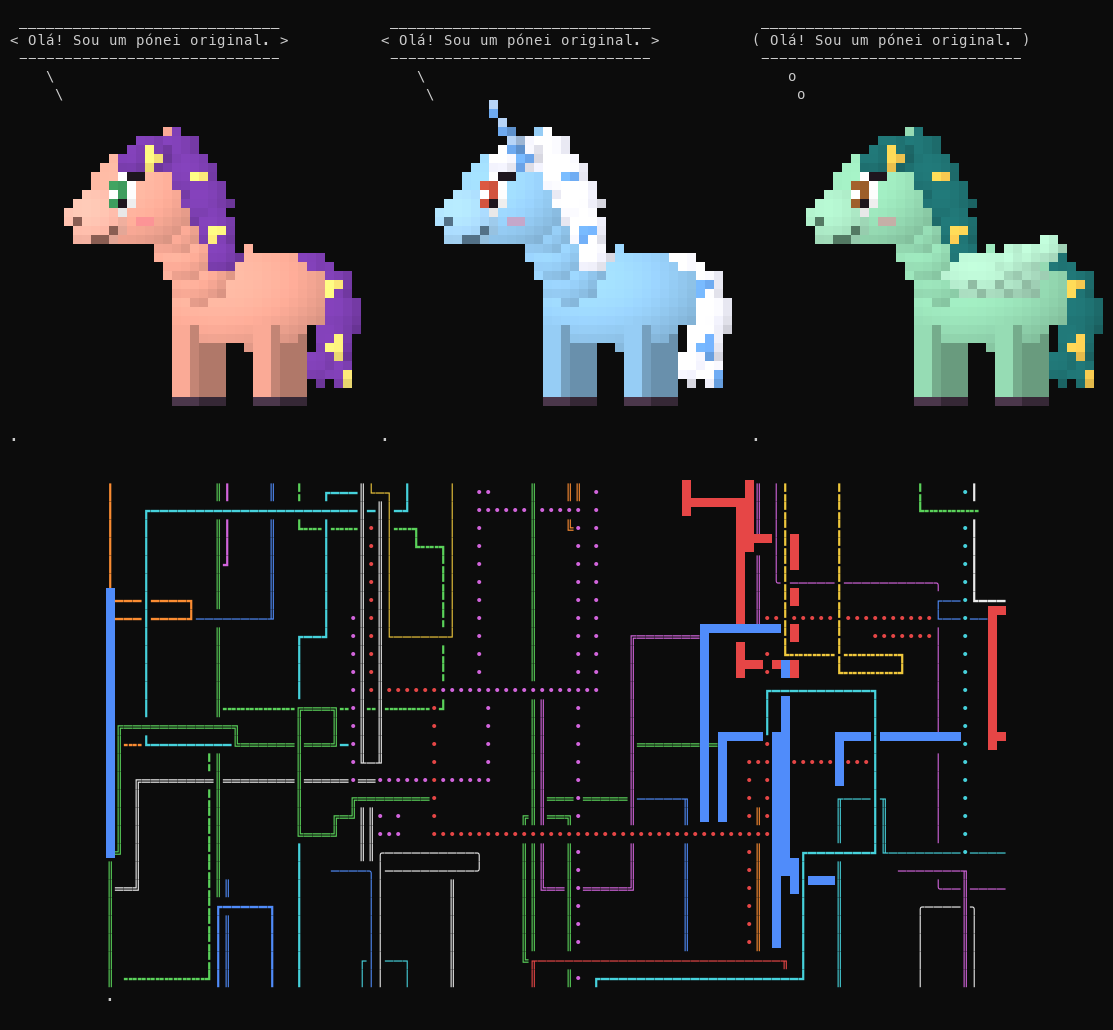
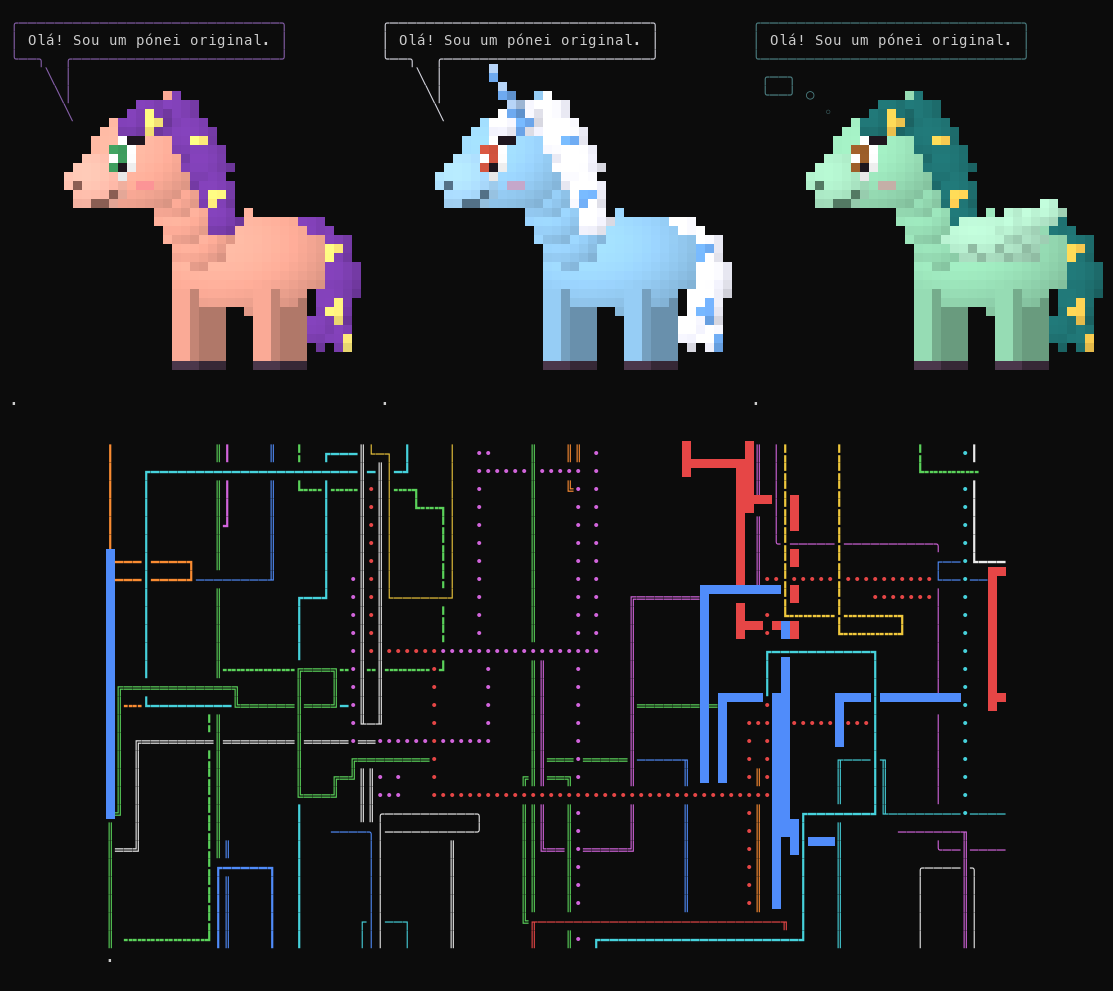
rponysay: rounded balloon with a pointed tail or thought bubbles

diff --git a/src/bin/rponysay.rs b/src/bin/rponysay.rs
@@ -2,12 +2,11 @@
 //! original ponies drawn by the program.
 
 use fun::cli::{Arg, Cli};
-use fun::cow::balloon;
 use fun::i18n::Lang;
 use fun::pix::{mix, scale, Pixels};
 use fun::rng::Rng;
 use fun::term::{self, Depth, Rgb};
-use fun::text::{expand_tabs, wrap_text};
+use fun::text::{expand_tabs, width, wrap_text};
 use std::io::Write;
 
 struct Texts {
@@ -288,19 +287,51 @@ fn main() {
     let _ = std::io::stdout().write_all(render(&message, think, width, wrap, coat, kind, depth).as_bytes());
 }
 
+/// The tail of a spoken balloon: a wedge out of the gap in the bottom line
+/// (`╰──╮  ╭───╯`) whose sides meet in front of the pony's face.
+const SPEECH_TAIL: [&str; 3] = ["    ╲ │", "     ╲│", "      ╲"];
+/// The tail of a thought: bubbles shrinking towards the pony's head, the first
+/// one a small rounded box like the balloon.
+const THOUGHT_TAIL: [&str; 3] = [" ╭──╮", " ╰──╯ ○", "        ◦"];
+/// Columns where `╮` and `╭` open the bottom line for the speech tail.
+const GAP: (usize, usize) = (3, 6);
+
+/// A rounded box around the text, its frame drawn in `on`. Returns the box and
+/// the tail, whose rows go into the empty start of the pony's first rows.
+fn balloon(lines: &[String], think: bool, on: &str, off: &str) -> (String, [&'static str; 3]) {
+    // Wide enough for the gap the speech tail opens in the bottom line.
+    let w = lines.iter().map(|l| width(l)).max().unwrap_or(0).max(GAP.1 + 2);
+    let mut out = format!("{on}╭{}╮{off}\n", "─".repeat(w + 2));
+    for l in lines {
+        out.push_str(&format!("{on}│{off} {l}{} {on}│{off}\n", " ".repeat(w - width(l))));
+    }
+    if think {
+        out.push_str(&format!("{on}╰{}╯{off}\n", "─".repeat(w + 2)));
+        (out, THOUGHT_TAIL)
+    } else {
+        let (a, b) = GAP;
+        out.push_str(&format!("{on}╰{}╮{}╭{}╯{off}\n", "─".repeat(a - 1), " ".repeat(b - a - 1), "─".repeat(w + 2 - b)));
+        (out, SPEECH_TAIL)
+    }
+}
+
 fn render(message: &str, think: bool, width: usize, wrap: bool, coat: &Coat, kind: &str, depth: Depth) -> String {
     let message = expand_tabs(message.trim_end(), 8);
     let lines: Vec<String> = if wrap { wrap_text(&message, width) } else { message.lines().map(str::to_string).collect() };
     let lines = if lines.is_empty() { vec![String::new()] } else { lines };
-    let mut out = balloon(&lines, think);
-    // The link from the balloon down to the pony's head.
-    let link = if think { "o" } else { "\\" };
-    for i in 0..2 {
-        out.push_str(&format!("{}{link}\n", " ".repeat(4 + i)));
-    }
-    for l in pony(coat, kind).to_lines(depth) {
-        out.push_str("     ");
-        out.push_str(&l);
+    // The frame takes a soft tone of the pony's mane.
+    let on = term::fg(depth, mix(coat.mane, Rgb(160, 160, 170), 0.35));
+    let off = if on.is_empty() { "" } else { term::RESET };
+    let (mut out, tail) = balloon(&lines, think, &on, off);
+    for (i, l) in pony(coat, kind).to_lines(depth).iter().enumerate() {
+        let line = format!("     {l}");
+        let rest = line.trim_start_matches(' ');
+        let blank = if rest.is_empty() { usize::MAX } else { line.len() - rest.len() };
+        match tail.get(i).map(|t| (t, t.chars().count())) {
+            // The tail replaces spaces only, never the pony.
+            Some((t, n)) if n <= blank => out.push_str(&format!("{on}{t}{off}{}", line.get(n..).unwrap_or(""))),
+            _ => out.push_str(&line),
+        }
         out.push('\n');
     }
     out
@@ -315,11 +346,18 @@ mod tests {
         for c in COATS {
             for k in KINDS {
                 let s = render("Olá, mundo!", false, 40, true, c, k, Depth::None);
-                assert!(s.starts_with(" _____________\n< Olá, mundo! >\n"), "{s}");
+                assert!(s.starts_with("╭─────────────╮\n│ Olá, mundo! │\n╰──╮  ╭───────╯\n    ╲ │"), "{s}");
+                let rows: Vec<_> = s.lines().collect();
+                assert!(rows[4].starts_with("     ╲│ ") && rows[5].starts_with("      ╲ "), "{s}");
                 assert!(s.lines().count() > 15);
             }
         }
-        assert!(render("hm", true, 40, true, &COATS[0], "pony", Depth::None).contains("    o\n"));
+        let s = render("hm", true, 40, true, &COATS[0], "pony", Depth::None);
+        assert!(s.starts_with("╭──────────╮\n│ hm       │\n╰──────────╯\n ╭──╮"), "{s}");
+        // Every line of the box is as wide as its top, wide characters included.
+        let s = render("日本 ok\nnext", false, 40, false, &COATS[0], "pony", Depth::None);
+        let top = width(s.lines().next().unwrap());
+        assert!(s.lines().take(4).all(|l| width(l) == top), "{s}");
     }
 
     /// `cargo test --bin rponysay snapshot -- --ignored --nocapture`

diff --git a/README.pt.md b/README.pt.md
@@ -297,8 +297,9 @@ rponysay -l                        # pelagens e tipos
 
 Os póneis são pixel art original desenhada pelo programa (não são as personagens do ponysay
 original): três tipos (pony, unicorn, pegasus) e oito pelagens (coral, lilac, azure, lemon,
-jade, plum, snow, cocoa), escolhidos ao acaso se não forem indicados. `-W` largura, `-n` sem
-quebra de linhas, `-s` semente.
+jade, plum, snow, cocoa), escolhidos ao acaso se não forem indicados. A mensagem vai numa caixa
+de cantos arredondados, com a moldura num tom da crina, e um bico até à cara do pónei ou, com
+`-t`, bolhas de pensamento. `-W` largura, `-n` sem quebra de linhas, `-s` semente.
 
 ### rgenact
 

diff --git a/README.md b/README.md
@@ -295,8 +295,9 @@ rponysay -l                        # coats and kinds
 
 The ponies are original pixel art drawn by the program (they are not the characters of the
 original ponysay): three kinds (pony, unicorn, pegasus) and eight coats (coral, lilac, azure,
-lemon, jade, plum, snow, cocoa), chosen at random unless given. `-W` wrap width, `-n` no wrap,
-`-s` seed.
+lemon, jade, plum, snow, cocoa), chosen at random unless given. The message goes in a box with
+rounded corners, framed in a tone of the mane, with a pointed tail to the pony's face or, with
+`-t`, thought bubbles. `-W` wrap width, `-n` no wrap, `-s` seed.
 
 ### rgenact
 
